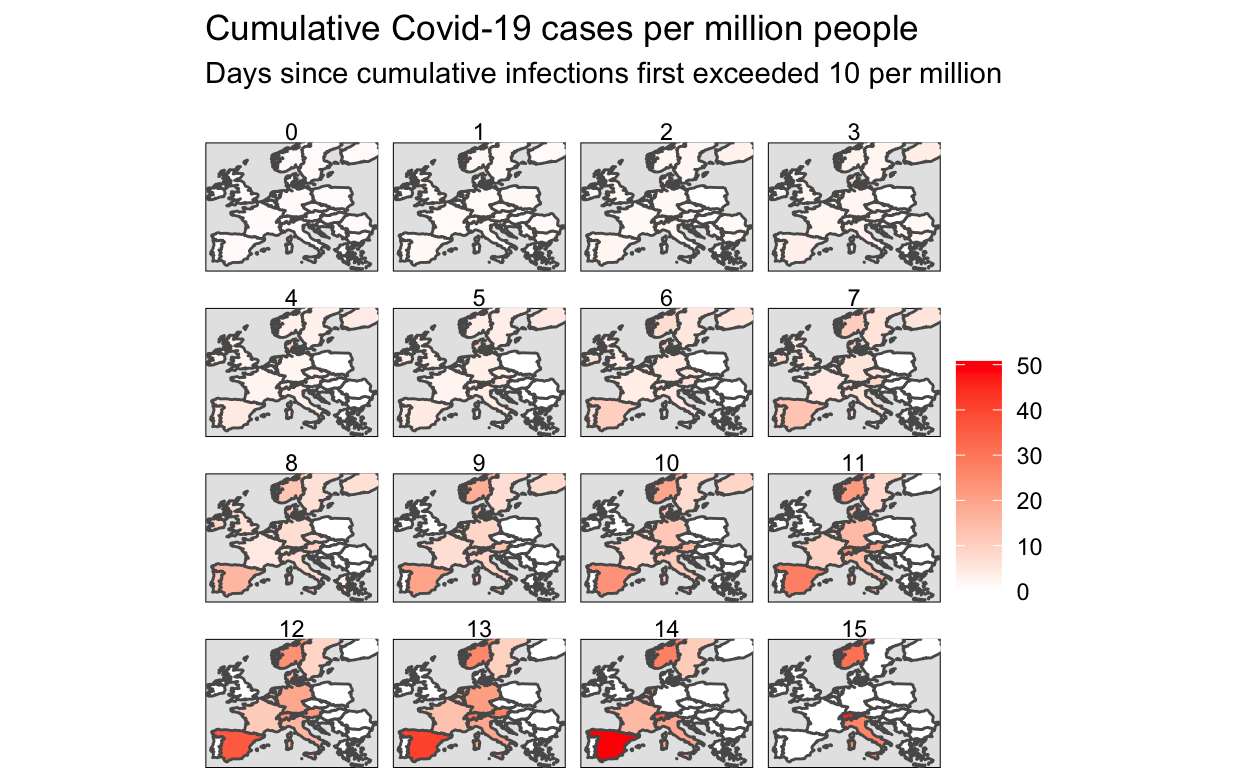
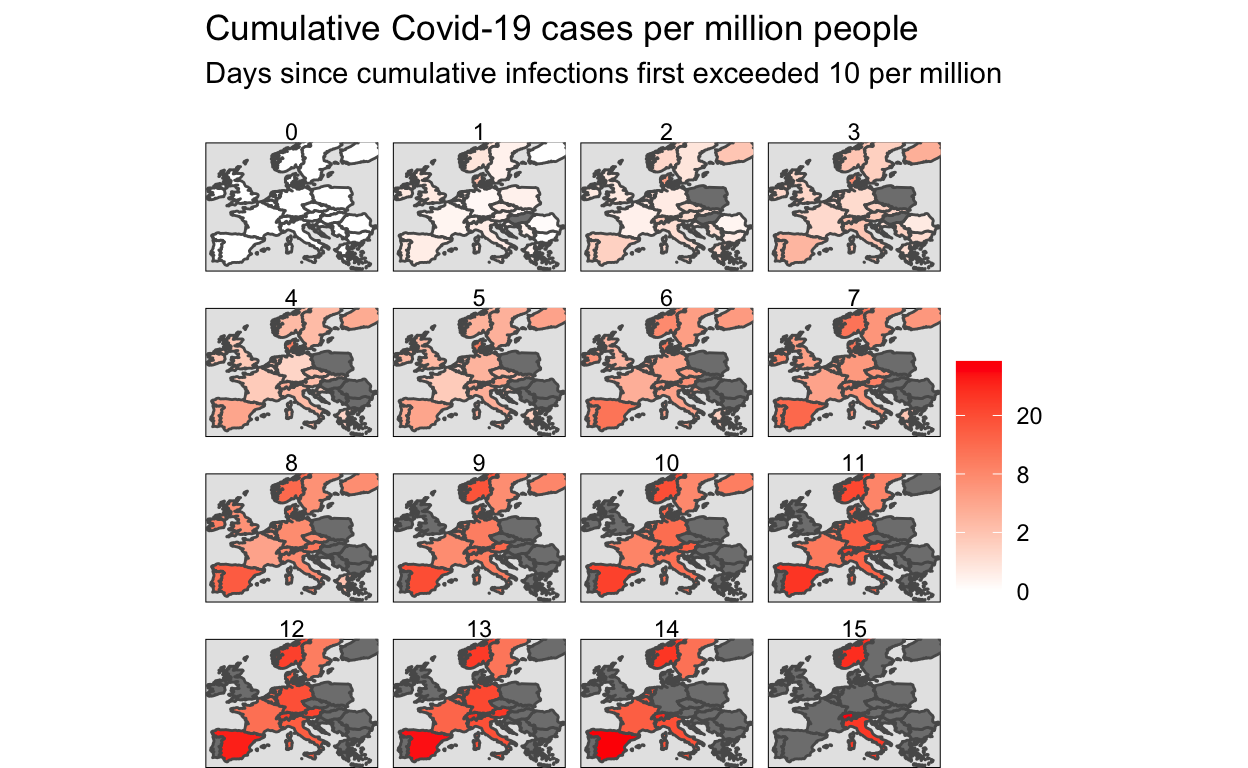
Improve scale on animation

diff --git a/public/posts/2020-03-21-covid-animate/index.html b/public/posts/2020-03-21-covid-animate/index.html
@@ -21,7 +21,7 @@
   <!--radix_placeholder_meta_tags-->
 <title>Robin Penfold: Animating Covid-19</title>
 
-<meta property="description" itemprop="description" content="Previous analysis in this area has tended not to show maps over time against the right measures. I aim to do so here."/>
+<meta property="description" itemprop="description" content="Previous analysis in this area has tended not to show maps over time against the right measures. I aim to do so here for Europe. The picture that emerges is one of sobering consistency."/>
 
 
 <!--  https://schema.org/Article -->
@@ -32,20 +32,20 @@
 <!--  https://developers.facebook.com/docs/sharing/webmasters#markup -->
 <meta property="og:title" content="Robin Penfold: Animating Covid-19"/>
 <meta property="og:type" content="article"/>
-<meta property="og:description" content="Previous analysis in this area has tended not to show maps over time against the right measures. I aim to do so here."/>
+<meta property="og:description" content="Previous analysis in this area has tended not to show maps over time against the right measures. I aim to do so here for Europe. The picture that emerges is one of sobering consistency."/>
 <meta property="og:locale" content="en_US"/>
 <meta property="og:site_name" content="Robin Penfold"/>
 
 <!--  https://dev.twitter.com/cards/types/summary -->
 <meta property="twitter:card" content="summary"/>
 <meta property="twitter:title" content="Robin Penfold: Animating Covid-19"/>
-<meta property="twitter:description" content="Previous analysis in this area has tended not to show maps over time against the right measures. I aim to do so here."/>
+<meta property="twitter:description" content="Previous analysis in this area has tended not to show maps over time against the right measures. I aim to do so here for Europe. The picture that emerges is one of sobering consistency."/>
 
 <!--/radix_placeholder_meta_tags-->
   <!--radix_placeholder_rmarkdown_metadata-->
 
 <script type="text/json" id="radix-rmarkdown-metadata">
-{"type":"list","attributes":{"names":{"type":"character","attributes":{},"value":["title","author","date","categories","draft","slug","preview","description","output"]}},"value":[{"type":"character","attributes":{},"value":["Animating Covid-19"]},{"type":"list","attributes":{},"value":[{"type":"list","attributes":{"names":{"type":"character","attributes":{},"value":["name"]}},"value":[{"type":"character","attributes":{},"value":["Robin Penfold"]}]}]},{"type":"character","attributes":{},"value":["2020-03-21"]},{"type":"character","attributes":{},"value":["medical"]},{"type":"logical","attributes":{},"value":[false]},{"type":"character","attributes":{},"value":["covid-animate"]},{"type":"character","attributes":{},"value":["europe.gif"]},{"type":"character","attributes":{},"value":["Previous analysis in this area has tended not to show maps over time against the right measures. I aim to do so here."]},{"type":"list","attributes":{"names":{"type":"character","attributes":{},"value":["distill::distill_article"]}},"value":[{"type":"list","attributes":{"names":{"type":"character","attributes":{},"value":["self_contained","highlight"]}},"value":[{"type":"logical","attributes":{},"value":[false]},{"type":"character","attributes":{},"value":["pygments"]}]}]}]}
+{"type":"list","attributes":{"names":{"type":"character","attributes":{},"value":["title","author","date","categories","draft","slug","preview","description","output"]}},"value":[{"type":"character","attributes":{},"value":["Animating Covid-19"]},{"type":"list","attributes":{},"value":[{"type":"list","attributes":{"names":{"type":"character","attributes":{},"value":["name"]}},"value":[{"type":"character","attributes":{},"value":["Robin Penfold"]}]}]},{"type":"character","attributes":{},"value":["2020-03-21"]},{"type":"character","attributes":{},"value":["medical"]},{"type":"logical","attributes":{},"value":[false]},{"type":"character","attributes":{},"value":["covid-animate"]},{"type":"character","attributes":{},"value":["europe.gif"]},{"type":"character","attributes":{},"value":["Previous analysis in this area has tended not to show maps over time against the right measures. I aim to do so here for Europe. The picture that emerges is one of sobering consistency."]},{"type":"list","attributes":{"names":{"type":"character","attributes":{},"value":["distill::distill_article"]}},"value":[{"type":"list","attributes":{"names":{"type":"character","attributes":{},"value":["self_contained","highlight"]}},"value":[{"type":"logical","attributes":{},"value":[false]},{"type":"character","attributes":{},"value":["pygments"]}]}]}]}
 </script>
 <!--/radix_placeholder_rmarkdown_metadata-->
   
@@ -1296,7 +1296,7 @@ document.addEventListener('DOMContentLoaded', function() {
 <!--radix_placeholder_front_matter-->
 
 <script id="distill-front-matter" type="text/json">
-{"title":"Animating Covid-19","description":"Previous analysis in this area has tended not to show maps over time against the right measures. I aim to do so here.","authors":[{"author":"Robin Penfold","authorURL":"#","affiliation":"&nbsp;","affiliationURL":"#"}],"publishedDate":"2020-03-21T00:00:00.000+00:00","citationText":"Penfold, 2020"}
+{"title":"Animating Covid-19","description":"Previous analysis in this area has tended not to show maps over time against the right measures. I aim to do so here for Europe. The picture that emerges is one of sobering consistency.","authors":[{"author":"Robin Penfold","authorURL":"#","affiliation":"&nbsp;","affiliationURL":"#"}],"publishedDate":"2020-03-21T00:00:00.000+00:00","citationText":"Penfold, 2020"}
 </script>
 
 <!--/radix_placeholder_front_matter-->
@@ -1332,7 +1332,7 @@ document.addEventListener('DOMContentLoaded', function() {
 
 <div class="d-title">
 <h1>Animating Covid-19</h1>
-<p><p>Previous analysis in this area has tended not to show maps over time against the right measures. I aim to do so here.</p></p>
+<p><p>Previous analysis in this area has tended not to show maps over time against the right measures. I aim to do so here for Europe. The picture that emerges is one of sobering consistency.</p></p>
 </div>
 
 <div class="d-byline">
@@ -1521,7 +1521,15 @@ animation &lt;- data_rebased_country_wide %&gt;%
     expand = FALSE
     ) + 
   scale_fill_binned(type = &quot;gradient&quot;) +
-  scale_fill_gradient(low = &quot;white&quot;, high = &quot;red&quot;) +
+  scale_fill_gradient(
+    low = &quot;white&quot;, 
+    high = &quot;red&quot;, 
+    trans = &quot;log&quot;, 
+    labels = label_number(
+      big.mark = &#39;,&#39;, 
+      accuracy = 2
+      )
+  ) +
   theme_void() + 
   theme(
     panel.background = element_rect(fill = &#39;grey90&#39;),
@@ -1548,7 +1556,7 @@ animation &lt;- data_rebased_country_wide %&gt;%
   ease_aes(&#39;sine-in-out&#39;)
 
 # gganimate::anim_save(
-#   animation = animation, 
+#   animation = animation,
 #   filename = &#39;europe.gif&#39;
 #   )
 
@@ -1566,8 +1574,15 @@ data_rebased_country_wide %&gt;%
     ylim = c(34.6, 65),
     expand = FALSE
     ) + 
-  scale_fill_binned(type = &quot;gradient&quot;) +
-  scale_fill_gradient(low = &quot;white&quot;, high = &quot;red&quot;) +
+  scale_fill_gradient(
+    low = &quot;white&quot;, 
+    high = &quot;red&quot;, 
+    trans = &quot;log&quot;, 
+    labels = label_number(
+      big.mark = &#39;,&#39;, 
+      accuracy = 2
+      )
+    ) +
   theme_void() + 
   theme(
     panel.background = element_rect(fill = &#39;grey90&#39;),
@@ -1578,7 +1593,10 @@ data_rebased_country_wide %&gt;%
     subtitle = &#39;Days since cumulative infections first exceeded 10 per million \n&#39;,
     fill = &#39;&#39;
   ) + 
-  facet_wrap(~DateNumber_rebased, ncol = 4)</code></pre>
+  facet_wrap(
+    ~DateNumber_rebased, 
+    ncol = 4
+    )</code></pre>
 </div>
 <h2 id="system-settings" class="appendix">System settings</h2>
 <div class="layout-chunk" data-layout="l-body">
@@ -1615,20 +1633,20 @@ loaded via a namespace (and not attached):
 [13] httr_1.4.1           pillar_1.4.3         rlang_0.4.5         
 [16] progress_1.2.2       curl_4.3             readxl_1.3.1        
 [19] rstudioapi_0.11      gifski_0.8.6         rmarkdown_2.1       
-[22] labeling_0.3         munsell_0.5.0        gridtext_0.1.1      
-[25] broom_0.5.4          compiler_3.6.0       modelr_0.1.5        
-[28] xfun_0.12            pkgconfig_2.0.3      htmltools_0.4.0.9003
-[31] tidyselect_1.0.0     fansi_0.4.1          crayon_1.3.4        
-[34] dbplyr_1.4.2         withr_2.1.2          grid_3.6.0          
-[37] nlme_3.1-139         jsonlite_1.6.1       gtable_0.3.0        
-[40] lifecycle_0.2.0      DBI_1.1.0            magrittr_1.5        
-[43] units_0.6-5          KernSmooth_2.23-15   cli_2.0.2           
-[46] stringi_1.4.6        farver_2.0.3         fs_1.3.2            
-[49] xml2_1.2.5           ellipsis_0.3.0       vctrs_0.2.4         
-[52] generics_0.0.2       distill_0.7          tools_3.6.0         
-[55] tweenr_1.0.1         hms_0.5.3            yaml_2.2.1          
-[58] colorspace_1.4-1     rvest_0.3.5          classInt_0.4-2      
-[61] knitr_1.28           haven_2.2.0         </code></pre>
+[22] munsell_0.5.0        gridtext_0.1.1       broom_0.5.4         
+[25] compiler_3.6.0       modelr_0.1.5         xfun_0.12           
+[28] pkgconfig_2.0.3      htmltools_0.4.0.9003 tidyselect_1.0.0    
+[31] fansi_0.4.1          crayon_1.3.4         dbplyr_1.4.2        
+[34] withr_2.1.2          grid_3.6.0           nlme_3.1-139        
+[37] jsonlite_1.6.1       gtable_0.3.0         lifecycle_0.2.0     
+[40] DBI_1.1.0            magrittr_1.5         units_0.6-5         
+[43] KernSmooth_2.23-15   cli_2.0.2            stringi_1.4.6       
+[46] farver_2.0.3         fs_1.3.2             xml2_1.2.5          
+[49] ellipsis_0.3.0       vctrs_0.2.4          generics_0.0.2      
+[52] distill_0.7          tools_3.6.0          tweenr_1.0.1        
+[55] hms_0.5.3            yaml_2.2.1           colorspace_1.4-1    
+[58] rvest_0.3.5          classInt_0.4-2       knitr_1.28          
+[61] haven_2.2.0         </code></pre>
 </div>
 <!--radix_placeholder_article_footer-->
 <!--/radix_placeholder_article_footer-->

diff --git a/_posts/2020-03-21-covid-animate/covid-animate.html b/_posts/2020-03-21-covid-animate/covid-animate.html
@@ -21,7 +21,7 @@
   <!--radix_placeholder_meta_tags-->
   <title>Animating Covid-19</title>
   
-  <meta property="description" itemprop="description" content="Previous analysis in this area has tended not to show maps over time against the right measures. I aim to do so here."/>
+  <meta property="description" itemprop="description" content="Previous analysis in this area has tended not to show maps over time against the right measures. I aim to do so here for Europe. The picture that emerges is one of sobering consistency."/>
   
   
   <!--  https://schema.org/Article -->
@@ -32,19 +32,19 @@
   <!--  https://developers.facebook.com/docs/sharing/webmasters#markup -->
   <meta property="og:title" content="Animating Covid-19"/>
   <meta property="og:type" content="article"/>
-  <meta property="og:description" content="Previous analysis in this area has tended not to show maps over time against the right measures. I aim to do so here."/>
+  <meta property="og:description" content="Previous analysis in this area has tended not to show maps over time against the right measures. I aim to do so here for Europe. The picture that emerges is one of sobering consistency."/>
   <meta property="og:locale" content="en_US"/>
   
   <!--  https://dev.twitter.com/cards/types/summary -->
   <meta property="twitter:card" content="summary"/>
   <meta property="twitter:title" content="Animating Covid-19"/>
-  <meta property="twitter:description" content="Previous analysis in this area has tended not to show maps over time against the right measures. I aim to do so here."/>
+  <meta property="twitter:description" content="Previous analysis in this area has tended not to show maps over time against the right measures. I aim to do so here for Europe. The picture that emerges is one of sobering consistency."/>
   
   <!--/radix_placeholder_meta_tags-->
   <!--radix_placeholder_rmarkdown_metadata-->
   
   <script type="text/json" id="radix-rmarkdown-metadata">
-  {"type":"list","attributes":{"names":{"type":"character","attributes":{},"value":["title","author","date","categories","draft","slug","preview","description","output"]}},"value":[{"type":"character","attributes":{},"value":["Animating Covid-19"]},{"type":"list","attributes":{},"value":[{"type":"list","attributes":{"names":{"type":"character","attributes":{},"value":["name"]}},"value":[{"type":"character","attributes":{},"value":["Robin Penfold"]}]}]},{"type":"character","attributes":{},"value":["2020-03-21"]},{"type":"character","attributes":{},"value":["medical"]},{"type":"logical","attributes":{},"value":[false]},{"type":"character","attributes":{},"value":["covid-animate"]},{"type":"character","attributes":{},"value":["europe.gif"]},{"type":"character","attributes":{},"value":["Previous analysis in this area has tended not to show maps over time against the right measures. I aim to do so here.\n"]},{"type":"list","attributes":{"names":{"type":"character","attributes":{},"value":["distill::distill_article"]}},"value":[{"type":"list","attributes":{"names":{"type":"character","attributes":{},"value":["self_contained","highlight"]}},"value":[{"type":"logical","attributes":{},"value":[false]},{"type":"character","attributes":{},"value":["pygments"]}]}]}]}
+  {"type":"list","attributes":{"names":{"type":"character","attributes":{},"value":["title","author","date","categories","draft","slug","preview","description","output"]}},"value":[{"type":"character","attributes":{},"value":["Animating Covid-19"]},{"type":"list","attributes":{},"value":[{"type":"list","attributes":{"names":{"type":"character","attributes":{},"value":["name"]}},"value":[{"type":"character","attributes":{},"value":["Robin Penfold"]}]}]},{"type":"character","attributes":{},"value":["2020-03-21"]},{"type":"character","attributes":{},"value":["medical"]},{"type":"logical","attributes":{},"value":[false]},{"type":"character","attributes":{},"value":["covid-animate"]},{"type":"character","attributes":{},"value":["europe.gif"]},{"type":"character","attributes":{},"value":["Previous analysis in this area has tended not to show maps over time against the right measures. I aim to do so here for Europe. The picture that emerges is one of sobering consistency.\n"]},{"type":"list","attributes":{"names":{"type":"character","attributes":{},"value":["distill::distill_article"]}},"value":[{"type":"list","attributes":{"names":{"type":"character","attributes":{},"value":["self_contained","highlight"]}},"value":[{"type":"logical","attributes":{},"value":[false]},{"type":"character","attributes":{},"value":["pygments"]}]}]}]}
   </script>
   <!--/radix_placeholder_rmarkdown_metadata-->
   
@@ -942,7 +942,7 @@
 <!--radix_placeholder_front_matter-->
 
 <script id="distill-front-matter" type="text/json">
-{"title":"Animating Covid-19","description":"Previous analysis in this area has tended not to show maps over time against the right measures. I aim to do so here.","authors":[{"author":"Robin Penfold","authorURL":"#","affiliation":"&nbsp;","affiliationURL":"#"}],"publishedDate":"2020-03-21T00:00:00.000+00:00","citationText":"Penfold, 2020"}
+{"title":"Animating Covid-19","description":"Previous analysis in this area has tended not to show maps over time against the right measures. I aim to do so here for Europe. The picture that emerges is one of sobering consistency.","authors":[{"author":"Robin Penfold","authorURL":"#","affiliation":"&nbsp;","affiliationURL":"#"}],"publishedDate":"2020-03-21T00:00:00.000+00:00","citationText":"Penfold, 2020"}
 </script>
 
 <!--/radix_placeholder_front_matter-->
@@ -953,7 +953,7 @@
 
 <div class="d-title">
 <h1>Animating Covid-19</h1>
-<p><p>Previous analysis in this area has tended not to show maps over time against the right measures. I aim to do so here.</p></p>
+<p><p>Previous analysis in this area has tended not to show maps over time against the right measures. I aim to do so here for Europe. The picture that emerges is one of sobering consistency.</p></p>
 </div>
 
 <div class="d-byline">
@@ -1142,7 +1142,15 @@ animation &lt;- data_rebased_country_wide %&gt;%
     expand = FALSE
     ) + 
   scale_fill_binned(type = &quot;gradient&quot;) +
-  scale_fill_gradient(low = &quot;white&quot;, high = &quot;red&quot;) +
+  scale_fill_gradient(
+    low = &quot;white&quot;, 
+    high = &quot;red&quot;, 
+    trans = &quot;log&quot;, 
+    labels = label_number(
+      big.mark = &#39;,&#39;, 
+      accuracy = 2
+      )
+  ) +
   theme_void() + 
   theme(
     panel.background = element_rect(fill = &#39;grey90&#39;),
@@ -1169,7 +1177,7 @@ animation &lt;- data_rebased_country_wide %&gt;%
   ease_aes(&#39;sine-in-out&#39;)
 
 # gganimate::anim_save(
-#   animation = animation, 
+#   animation = animation,
 #   filename = &#39;europe.gif&#39;
 #   )
 
@@ -1187,8 +1195,15 @@ data_rebased_country_wide %&gt;%
     ylim = c(34.6, 65),
     expand = FALSE
     ) + 
-  scale_fill_binned(type = &quot;gradient&quot;) +
-  scale_fill_gradient(low = &quot;white&quot;, high = &quot;red&quot;) +
+  scale_fill_gradient(
+    low = &quot;white&quot;, 
+    high = &quot;red&quot;, 
+    trans = &quot;log&quot;, 
+    labels = label_number(
+      big.mark = &#39;,&#39;, 
+      accuracy = 2
+      )
+    ) +
   theme_void() + 
   theme(
     panel.background = element_rect(fill = &#39;grey90&#39;),
@@ -1199,7 +1214,10 @@ data_rebased_country_wide %&gt;%
     subtitle = &#39;Days since cumulative infections first exceeded 10 per million \n&#39;,
     fill = &#39;&#39;
   ) + 
-  facet_wrap(~DateNumber_rebased, ncol = 4)</code></pre>
+  facet_wrap(
+    ~DateNumber_rebased, 
+    ncol = 4
+    )</code></pre>
 </div>
 <h2 id="system-settings" class="appendix">System settings</h2>
 <div class="layout-chunk" data-layout="l-body">
@@ -1236,20 +1254,20 @@ loaded via a namespace (and not attached):
 [13] httr_1.4.1           pillar_1.4.3         rlang_0.4.5         
 [16] progress_1.2.2       curl_4.3             readxl_1.3.1        
 [19] rstudioapi_0.11      gifski_0.8.6         rmarkdown_2.1       
-[22] labeling_0.3         munsell_0.5.0        gridtext_0.1.1      
-[25] broom_0.5.4          compiler_3.6.0       modelr_0.1.5        
-[28] xfun_0.12            pkgconfig_2.0.3      htmltools_0.4.0.9003
-[31] tidyselect_1.0.0     fansi_0.4.1          crayon_1.3.4        
-[34] dbplyr_1.4.2         withr_2.1.2          grid_3.6.0          
-[37] nlme_3.1-139         jsonlite_1.6.1       gtable_0.3.0        
-[40] lifecycle_0.2.0      DBI_1.1.0            magrittr_1.5        
-[43] units_0.6-5          KernSmooth_2.23-15   cli_2.0.2           
-[46] stringi_1.4.6        farver_2.0.3         fs_1.3.2            
-[49] xml2_1.2.5           ellipsis_0.3.0       vctrs_0.2.4         
-[52] generics_0.0.2       distill_0.7          tools_3.6.0         
-[55] tweenr_1.0.1         hms_0.5.3            yaml_2.2.1          
-[58] colorspace_1.4-1     rvest_0.3.5          classInt_0.4-2      
-[61] knitr_1.28           haven_2.2.0         </code></pre>
+[22] munsell_0.5.0        gridtext_0.1.1       broom_0.5.4         
+[25] compiler_3.6.0       modelr_0.1.5         xfun_0.12           
+[28] pkgconfig_2.0.3      htmltools_0.4.0.9003 tidyselect_1.0.0    
+[31] fansi_0.4.1          crayon_1.3.4         dbplyr_1.4.2        
+[34] withr_2.1.2          grid_3.6.0           nlme_3.1-139        
+[37] jsonlite_1.6.1       gtable_0.3.0         lifecycle_0.2.0     
+[40] DBI_1.1.0            magrittr_1.5         units_0.6-5         
+[43] KernSmooth_2.23-15   cli_2.0.2            stringi_1.4.6       
+[46] farver_2.0.3         fs_1.3.2             xml2_1.2.5          
+[49] ellipsis_0.3.0       vctrs_0.2.4          generics_0.0.2      
+[52] distill_0.7          tools_3.6.0          tweenr_1.0.1        
+[55] hms_0.5.3            yaml_2.2.1           colorspace_1.4-1    
+[58] rvest_0.3.5          classInt_0.4-2       knitr_1.28          
+[61] haven_2.2.0         </code></pre>
 </div>
 <!--radix_placeholder_article_footer-->
 <!--/radix_placeholder_article_footer-->

diff --git a/public/index.html b/public/index.html
@@ -1649,7 +1649,7 @@ function init_posts_list() {
 </div>
 <div class="description">
 <h2>Animating Covid-19</h2>
-<p>Previous analysis in this area has tended not to show maps over time against the right measures. I aim to do so here.</p>
+<p>Previous analysis in this area has tended not to show maps over time against the right measures. I aim to do so here for Europe. The picture that emerges is one of sobering consistency.</p>
 </div>
 </a>
 <a href="posts/2020-03-14-covid/" class="post-preview">
